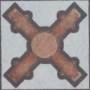
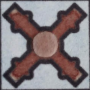
Java does not match python nor android, all opencv versions are supposedly the same

diff --git a/src/Main.java b/src/Main.java
@@ -13,7 +13,7 @@ public class Main {
         // Para utilización de openCv
         System.loadLibrary(Core.NATIVE_LIBRARY_NAME);
         Imgcodecs imageCodecs = new Imgcodecs();
-        String inputFolderName = "../Negatives/";
+        String inputFolderName = "../Positives/";
         File[] listImages = new File(inputFolderName).listFiles();
         for (File image : listImages) {
             if (image.isFile()) {
@@ -30,7 +30,7 @@ public class Main {
                 List<Mat> kMeansReconstructedMarkers = new ArrayList<>();
                 // Declaración hashmap de resultados
                 Map<String, String> specificResults = new HashMap<>();
-                int k = 2;
+                int k = 3;
                 for (int i = 0; i < xmarkersMats.size(); i++) {
                     // Reconstrucción d           e marcador con k centros/colores
                     Mat finalMat = Cluster.cluster(xmarkersMats.get(i), k);

diff --git a/src/Cluster.java b/src/Cluster.java
@@ -16,10 +16,10 @@ public class Cluster {
         Mat samples32f = new Mat();
         samples.convertTo(samples32f, CvType.CV_32F, 1.0 / 255.0);
         Mat labels = new Mat();
-        TermCriteria criteria = new TermCriteria(TermCriteria.MAX_ITER, 100, 100);
+        TermCriteria criteria = new TermCriteria(TermCriteria.MAX_ITER, 1000, 100);
 
         Mat centers = new Mat();
-        Core.kmeans(samples32f, k, labels, criteria, 10, Core.KMEANS_RANDOM_CENTERS, centers);
+        Core.kmeans(samples32f, k, labels, criteria, 80, Core.KMEANS_RANDOM_CENTERS, centers);
         return showClusters(cutout, labels, centers);
     }
 

diff --git a/src/XMarkers.java b/src/XMarkers.java
@@ -161,7 +161,6 @@ public class XMarkers {
                     + "\nfilterByArea: " + 1
                     + "\nminArea: " + 20
                     + "\nmaxArea: " + 5000
-                    + "\nminDistance: " + 0
                     + "\nfilterByCircularity: " + 0
                     + "\nminCircularity: " + 8.0000001192092896e-001
                     + "\nmaxCircularity: " + 3.4028234663852886e+038
